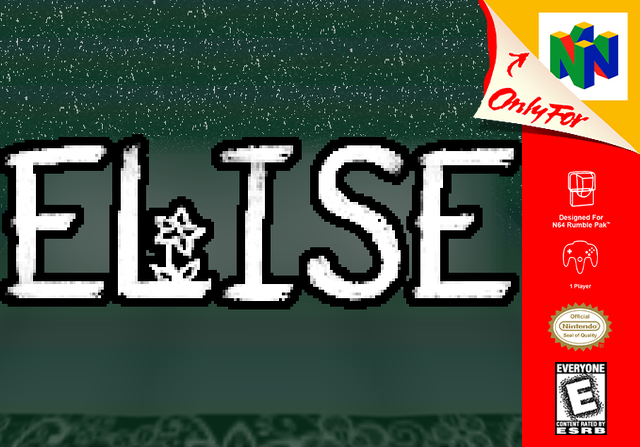
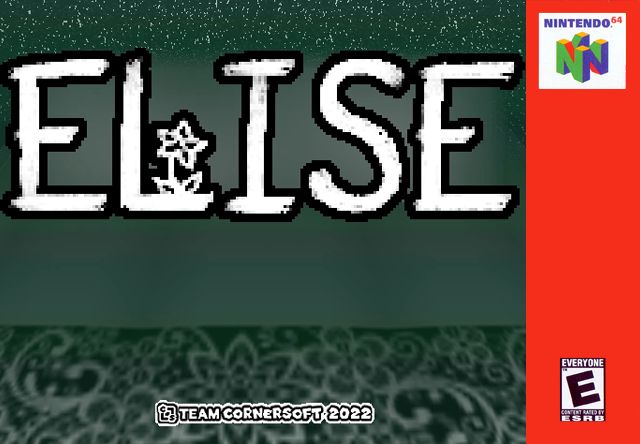
Box art: Super Mario 64 - Elise, Joey's own 640x444 cover replaces ours

diff --git a/boxart/README.md b/boxart/README.md
@@ -6,7 +6,7 @@ Joey64 reads `boxart/index.tsv` from the `release` branch (at most once a week) 
 
 | MD5 | Game | Source |
 | --- | --- | --- |
-| 193c195a5c5b28acd0d7346f050deea5 | Super Mario 64 - Elise | N64-style landscape box made 2026-11-15 from koobie777's N64 cover template layers around the hack's title screen (Team Cornersoft 2022, 625x474, from Joey), 640x447; Joey approved it |
+| 193c195a5c5b28acd0d7346f050deea5 | Super Mario 64 - Elise | N64-style landscape box made by Joey 2026-11-15 from koobie777's N64 cover template around the hack's title screen (Team Cornersoft 2022), 640x444 |
 | 605c74e34d0302707723b191ea30ae44 | Super Mario 64 - Peach's Fury | fan-made N64-style box, 385x281, from Joey (small: a bigger copy would match the 640 px covers) |
 | 9feee5da895fb2e115bb15d1c4a9f906 | Super Mario Land 64 v1.1 (its ROM header says SUPER MARIO 64 LAND) | fan-made N64-style box, 385x281, from Joey (small: a bigger copy would match the 640 px covers) |
 | 7906333f41184f6cfda9d364a6f8d565 | Shotgun Mario 64 (v1.0.4) | fan-made N64-style box, 412x300, from Joey |
